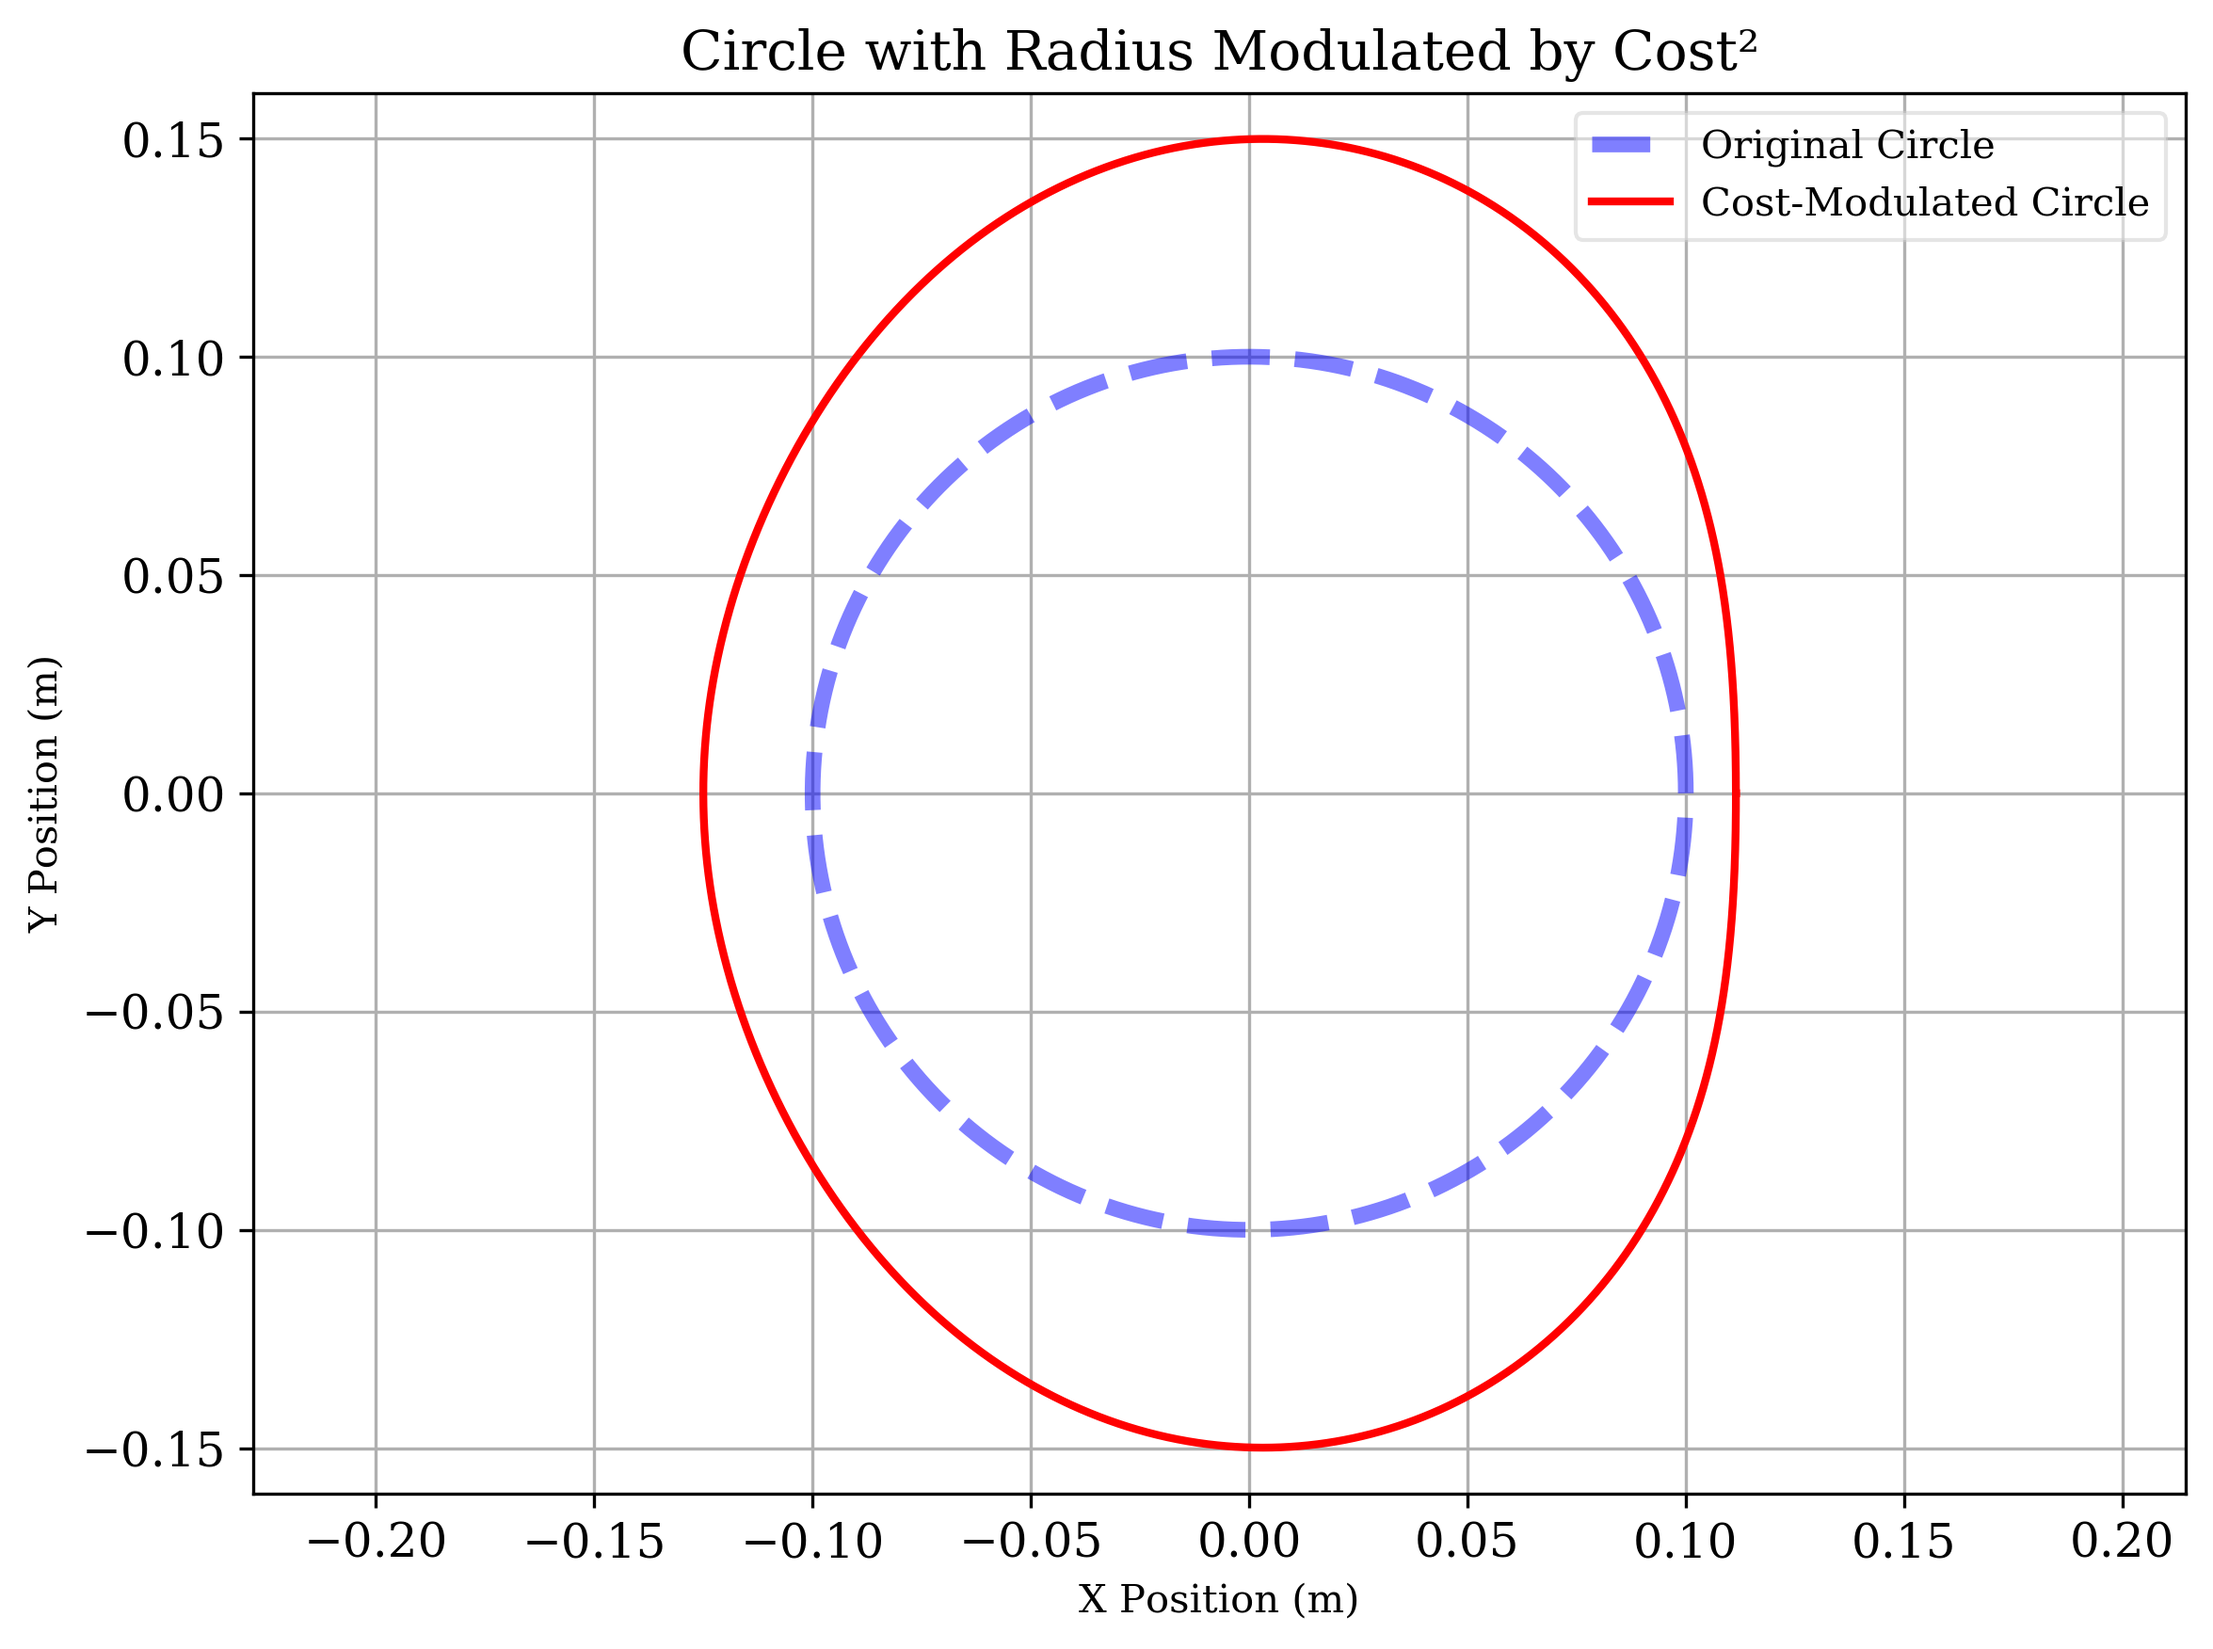
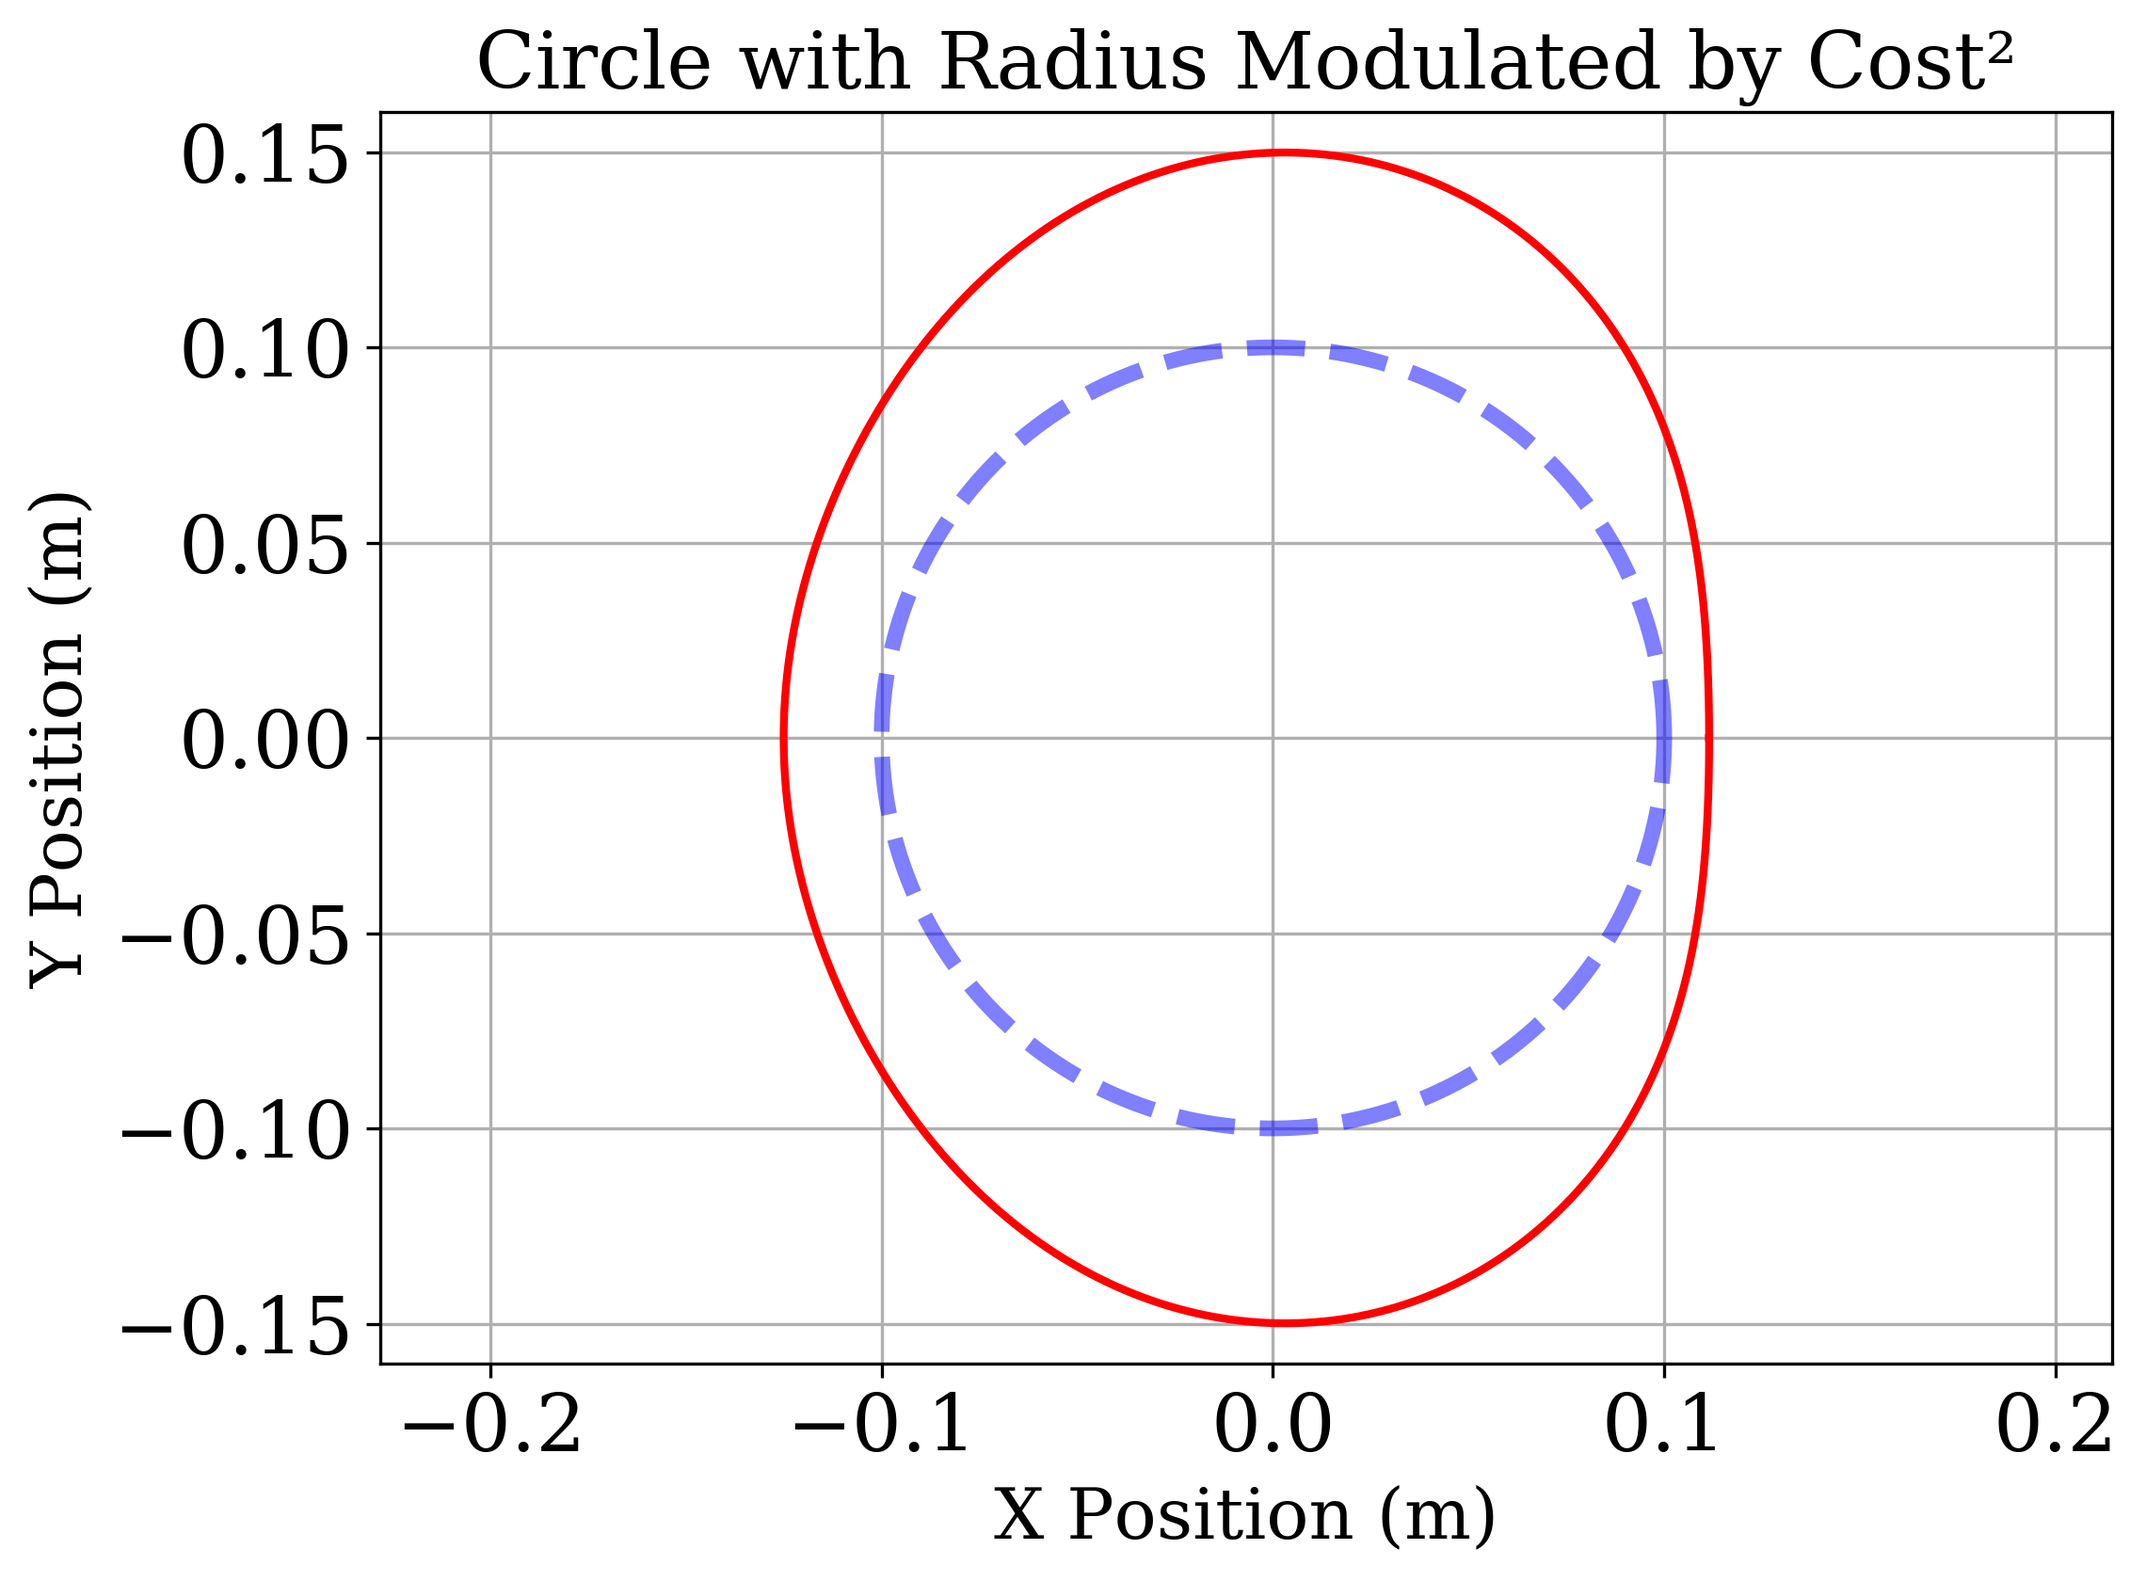
update figure

diff --git a/draw_circle_trajectory.py b/draw_circle_trajectory.py
@@ -99,7 +99,7 @@ print("cost_list:", cost_list)
 
 # Set font to Times New Roman with fallback options
 plt.rcParams['font.family'] = ['Times New Roman', 'DejaVu Serif', 'serif']
-plt.rcParams['font.size'] = 12
+plt.rcParams['font.size'] = 20
 
 # Create a single plot showing the circle trajectory with radius affected by cost
 plt.figure(figsize=(8, 6))
@@ -115,12 +115,11 @@ y_modulated = modulated_radius * np.sin(angle)
 
 plt.plot(x_list[0, :]-0.6, x_list[1, :], 'b--', alpha=0.5, label='Original Circle')
 plt.plot(x_modulated, y_modulated, 'r-', linewidth=2, label='Cost-Modulated Circle')
-plt.xlabel('X Position (m)', fontsize=10)
-plt.ylabel('Y Position (m)', fontsize=10)
-plt.title('Circle with Radius Modulated by Cost²', fontsize=14)
+plt.xlabel('X Position (m)', fontsize=18)
+plt.ylabel('Y Position (m)', fontsize=18)
+plt.title('Circle with Radius Modulated by Cost²', fontsize=20)
 plt.grid(True)
 plt.axis('equal')
-plt.legend(fontsize=10)
 
 plt.tight_layout()
 plt.savefig('/home/he/Meiji_Denso/circle_trajectory_analysis.png', dpi=300, bbox_inches='tight')
